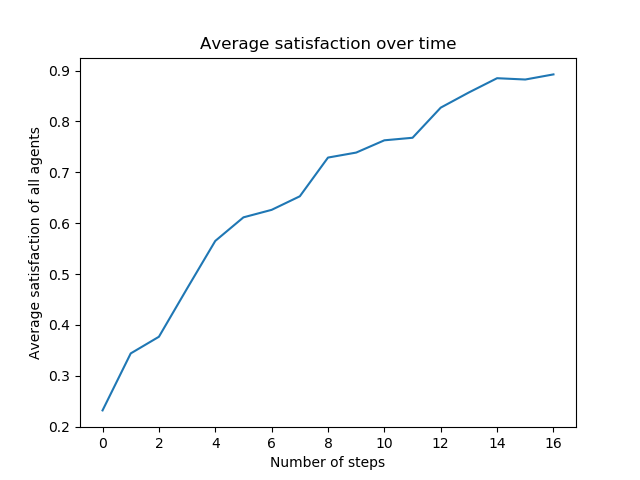
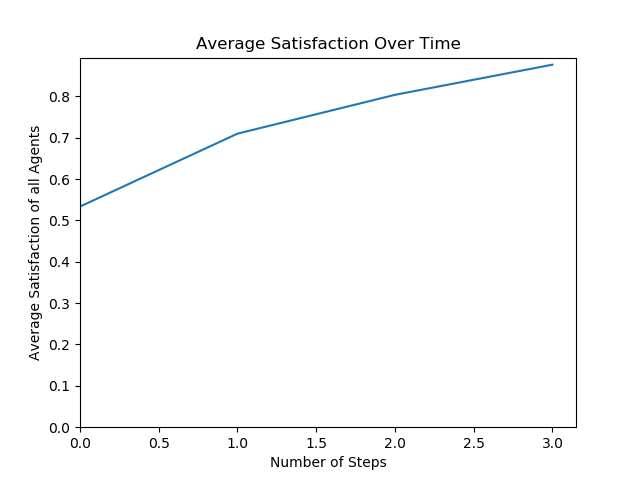
post presentation

diff --git a/city.py b/city.py
@@ -172,12 +172,12 @@ def get_frame(city):
         if not (house.empty or house.landmark):
             # equation of a line through 2 points (min_income, 0) and (max_income,255)
             color = int((house.occupant.income.value - min_income) * 255 / (max_income - min_income))
-            plt.scatter(x, y, c='#%02x%02x%02x' % (255, color, 255),s=100)
+            plt.scatter(x, y, c='#%02x%02x%02x' % (255, color, 255),s=10)
             data[x][y] = [color, 255, color]
         elif house.landmark:
-            plt.scatter(x,y,c="green",s=100,marker="^")
+            plt.scatter(x,y,c="green",s=10,marker="^")
         else:
-            plt.scatter(x,y,c="black",s=100)
+            plt.scatter(x,y,c="black",s=10)
 
     plt.gca().set_aspect('equal', adjustable='box')
     plt.axis("off")
@@ -195,13 +195,13 @@ def get_frame(city):
             continue
         if not (house.empty or house.landmark):
             if house.occupant.ethnicity.value:
-                plt.scatter(x, y, c="red",s=100)
+                plt.scatter(x, y, c="red",s=10)
             else:
-                plt.scatter(x,y,c="blue",s=100)
+                plt.scatter(x,y,c="blue",s=10)
         elif house.landmark:
-            plt.scatter(x,y,c="green",s=100,marker="^")
+            plt.scatter(x,y,c="green",s=10,marker="^")
         else:
-            plt.scatter(x,y,c="black",s=100)
+            plt.scatter(x,y,c="black",s=10)
 
     # for (xm, ym), colorm in np.ndenumerate(data):
     #     plt.scatter(x, y, c=colorm)
@@ -227,11 +227,11 @@ def get_frame(city):
             rc, gc, bc = colorsys.hls_to_rgb(this_religion / total_religions, 0.4, 1)
             rgb_255 = (int(rc * 255), int(gc * 255), int(bc * 255))
             if not house.landmark:
-                plt.scatter(x, y, c='#%02x%02x%02x' % rgb_255, s=100)
+                plt.scatter(x, y, c='#%02x%02x%02x' % rgb_255, s=10)
             else:
-                plt.scatter(x, y, c='#%02x%02x%02x' % rgb_255, s=100, marker="^")
+                plt.scatter(x, y, c='#%02x%02x%02x' % rgb_255, s=10, marker="^")
         else:
-            plt.scatter(x, y, c="black", s=100)
+            plt.scatter(x, y, c="black", s=10)
     plt.gca().set_aspect('equal', adjustable='box')
     plt.axis("off")
 
@@ -282,12 +282,14 @@ if __name__ == "__main__":
     frames_income = []
     cluster_eth =[]
     cluster_rel = []
+    inc_satisfaction = []
     # Go up to max_iterations
     for i in range(0, max_iterations):
         frame_religion, frame_ethnicity, frame_income = get_frame(city)
         frames_religion.append(frame_religion)
         frames_ethnicity.append(frame_ethnicity)
         frames_income.append(frame_income)
+        inc_satisfaction.append(income_comparison(city))
         e_c, e_s = cluster_ethnicity(city)
         r_c, r_s =cluster_religion(city)
         cluster_eth.append(e_c)
@@ -331,6 +333,17 @@ if __name__ == "__main__":
     plt.xlim(xmin=0)
     plt.ylim(ymin=0)
     plt.savefig("out/cluster_count_religion.png")
+
+    #income satisfaction plot
+    plt.clf()
+    plt.plot(inc_satisfaction)
+    plt.title("Neighbor Income Satisfaction over Time")
+    plt.xlabel("Number of Steps")
+    plt.ylabel("Average Satisfaction regarding Neighbor Incomes")
+    plt.xlim(xmin=0)
+    plt.ylim(ymin=0)
+    plt.savefig("out/income_satisfaction.png")
+
 
     #combined cluster
     plt.clf()

diff --git a/cluster_counts.py b/cluster_counts.py
@@ -15,8 +15,8 @@ def agent_count(city):
             landmarks += 1
         else:
             empty +=1
-    print("agents, landmarks, empty")
-    print(agents, landmarks, empty)
+    #print("agents, landmarks, empty")
+    #print(agents, landmarks, empty)
     
 #counts hoshen_kopelman clusters for religion
 def cluster_religion(city):
@@ -75,7 +75,7 @@ def cluster_religion(city):
                     agent_counted.append([x,y])
             continue
         
-    print("number of religion clusters:", len(clusters))
+    #print("number of religion clusters:", len(clusters))
     total_count = 0
     for i in clusters:
         total_count += len(i[1])
@@ -143,7 +143,7 @@ def cluster_ethnicity(city):
                     agent_counted.append([x,y])
             continue
         
-    print("number of ethnicity clusters:", len(clusters))
+    #print("number of ethnicity clusters:", len(clusters))
     total_count = 0
     for i in clusters:
         total_count += len(i[1])
@@ -177,9 +177,7 @@ def income_comparison(city):
             else:
                 income_happiness.append(income_gap/len(house_neighbors))
         continue
-        mean_inc_satisfaction = sum(income_happiness)/len(income_happiness)
-    #print("income gap average is:", mean_inc_satisfaction)
-    return (mean_inc_satisfaction)
+    return (sum(income_happiness)/len(income_happiness))
     
     
     

diff --git a/params.py b/params.py
@@ -4,7 +4,7 @@ max_iterations = 100
 satisfaction_threshold = 0.9
 
 # Width and height of the city grid
-w, h = 16,  16
+w, h = 32,  32
 
 # Min and max prices of homes
 min_price = 10000
@@ -22,7 +22,7 @@ price_noise = 0.3
 price_segregation = 0.1
 
 # Importance of religion, ethnicity and income respectively for each agent
-weight_list = [1, 1, 0]
+weight_list = [0.34, 0.33, 0.33]
 
 # Ratio of empty houses
 empty_ratio = 0.1
@@ -33,7 +33,7 @@ landmark_ratio = 0.01
 # how much to zoom in on the picture before displaying, please use integer for good results
 zoom = 10
 
-radius = 1
+radius = 2
 
 # Whether an agent checks their future neighbors before moving to a house
 check_future_home = False
